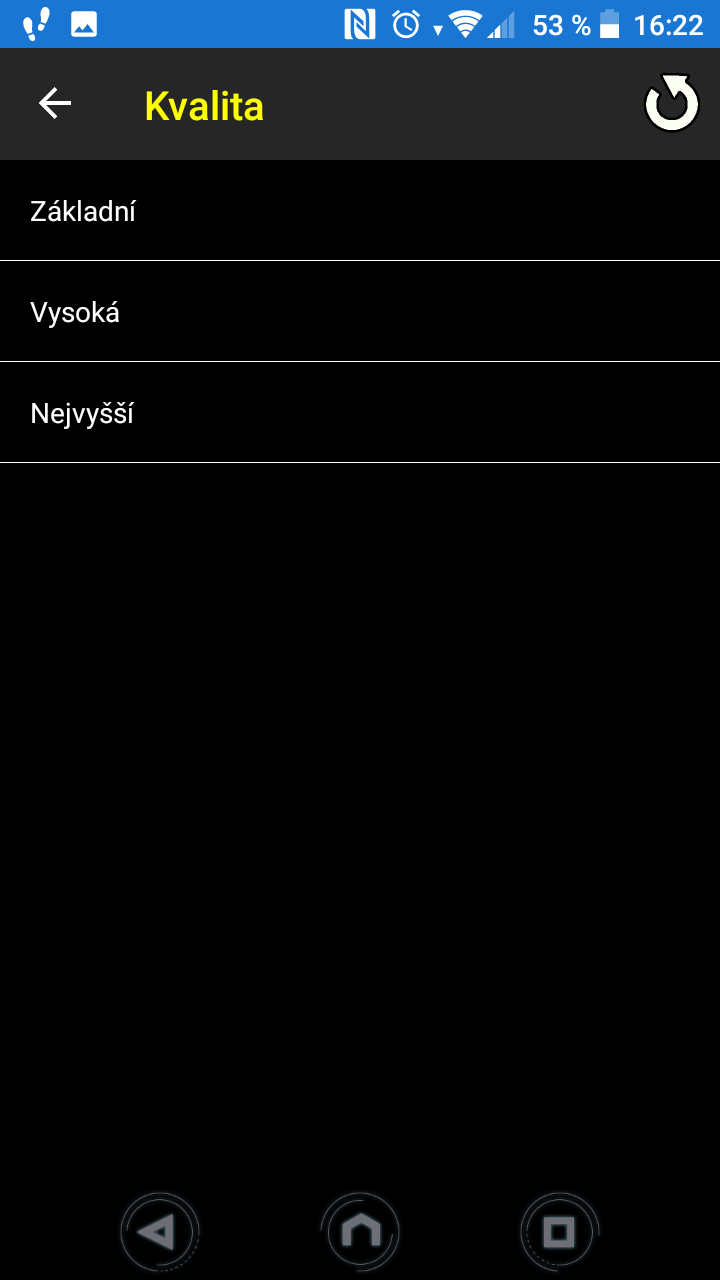
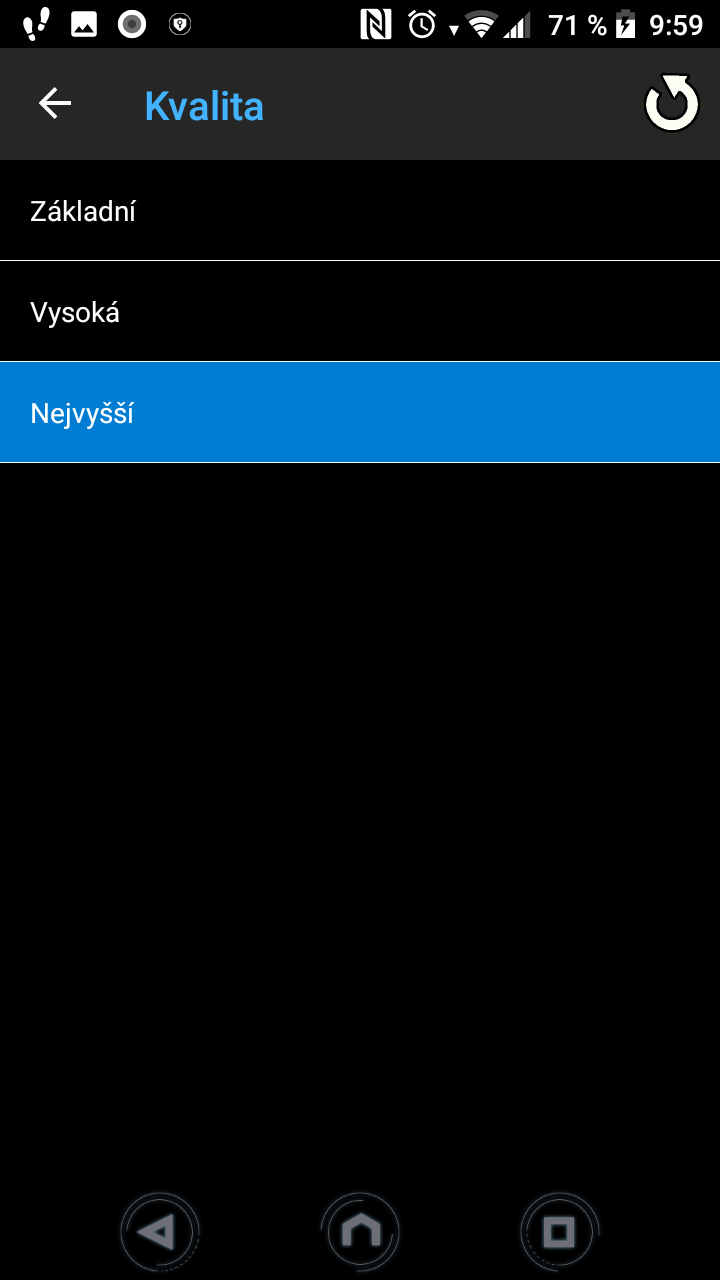
Semaphore for refreshing, GUI

Changed region(s): [[0.0, 0.2812, 1.0, 0.375], [0.0, 0.0, 1.0, 0.0938]]

diff --git a/SledovaniTVLive/SledovaniTVLive/Views/SettingsPage.xaml b/SledovaniTVLive/SledovaniTVLive/Views/SettingsPage.xaml
@@ -19,12 +19,13 @@
 
             <Style x:Key="CaptionStyle" TargetType="Label">
                 <Setter Property="TextColor" Value="White"/>
-                <Setter Property="FontSize" Value="14"/>                
+                <Setter Property="FontSize" Value="14"/>
+                <Setter Property="VerticalTextAlignment" Value="Center"/>
             </Style>
 
             <Style x:Key="GroupCaptionStyle" TargetType="Label">
                 <Setter Property="TextColor" Value="#41b3ff"/>
-                <Setter Property="FontSize" Value="16"/>                
+                <Setter Property="FontSize" Value="14"/>                
             </Style>
 
             <Style x:Key="CommonSwitchTextStyle" TargetType="Switch">
@@ -48,9 +49,9 @@
 
                 <StackLayout Margin="20,10,20,0">
 
-                    <Label Text="Přístupové údaje: " Style="{StaticResource GroupCaptionStyle}" />
+                    <Label Text="Přístupové údaje" Style="{StaticResource GroupCaptionStyle}" />
 
-                    <StackLayout Margin="20,20,0,0">
+                    <StackLayout Margin="20,10,0,0">
                         <Label Text="Uživatelské jméno (email):" Style="{StaticResource CaptionStyle}" />
                         <Entry Margin="20,0,0,0" BindingContext="{Binding Config}" x:Name="UsernameEntry"  Text="{Binding Username, Mode=TwoWay}" Placeholder="Zadejte uživatelské jméno" Style="{StaticResource CommonEntryTextStyle}"></Entry>
                     </StackLayout>
@@ -66,11 +67,11 @@
                     </StackLayout>
 
                 </StackLayout>
-                <StackLayout Margin="20,30,20,0">
+                <StackLayout Margin="20,10,20,0">
 
-                    <Label Text="Další nastavení:" Style="{StaticResource GroupCaptionStyle}" />
+                    <Label Text="Další nastavení" Style="{StaticResource GroupCaptionStyle}" />
 
-                    <Grid Margin="20,20,0,0">
+                    <Grid Margin="20,10,0,0">
                         <Grid.RowDefinitions>
                             <RowDefinition Height="*" />                            
                         </Grid.RowDefinitions>

diff --git a/SledovaniTVLive/SledovaniTVLive/Views/App.xaml b/SledovaniTVLive/SledovaniTVLive/Views/App.xaml
@@ -6,7 +6,7 @@
         <ResourceDictionary >
 
             <Color x:Key="primary-back-title-color">#262626</Color>
-            <Color x:Key="primary-title-color">#FFFF00</Color>
+            <Color x:Key="primary-title-color">#41b3ff</Color>
 
             <!-- Pallete-end -->
             <Style ApplyToDerivedTypes="true" TargetType="NavigationPage">

diff --git a/SledovaniTVLive/SledovaniTVLive.Android/Resources/Resource.designer.cs b/SledovaniTVLive/SledovaniTVLive.Android/Resources/Resource.designer.cs
@@ -3266,44 +3266,50 @@ namespace SledovaniTVLive.Droid
 		public partial class Color
 		{
 			
-			// aapt resource value: 0x7f0d004f
-			public const int abc_background_cache_hint_selector_material_dark = 2131558479;
-			
 			// aapt resource value: 0x7f0d0050
-			public const int abc_background_cache_hint_selector_material_light = 2131558480;
+			public const int ListViewHighlighted = 2131558480;
+			
+			// aapt resource value: 0x7f0d004f
+			public const int ListViewSelected = 2131558479;
 			
 			// aapt resource value: 0x7f0d0051
-			public const int abc_btn_colored_borderless_text_material = 2131558481;
+			public const int abc_background_cache_hint_selector_material_dark = 2131558481;
 			
 			// aapt resource value: 0x7f0d0052
-			public const int abc_btn_colored_text_material = 2131558482;
+			public const int abc_background_cache_hint_selector_material_light = 2131558482;
 			
 			// aapt resource value: 0x7f0d0053
-			public const int abc_color_highlight_material = 2131558483;
+			public const int abc_btn_colored_borderless_text_material = 2131558483;
 			
 			// aapt resource value: 0x7f0d0054
-			public const int abc_hint_foreground_material_dark = 2131558484;
+			public const int abc_btn_colored_text_material = 2131558484;
 			
 			// aapt resource value: 0x7f0d0055
-			public const int abc_hint_foreground_material_light = 2131558485;
+			public const int abc_color_highlight_material = 2131558485;
+			
+			// aapt resource value: 0x7f0d0056
+			public const int abc_hint_foreground_material_dark = 2131558486;
+			
+			// aapt resource value: 0x7f0d0057
+			public const int abc_hint_foreground_material_light = 2131558487;
 			
 			// aapt resource value: 0x7f0d0004
 			public const int abc_input_method_navigation_guard = 2131558404;
 			
-			// aapt resource value: 0x7f0d0056
-			public const int abc_primary_text_disable_only_material_dark = 2131558486;
-			
-			// aapt resource value: 0x7f0d0057
-			public const int abc_primary_text_disable_only_material_light = 2131558487;
-			
 			// aapt resource value: 0x7f0d0058
-			public const int abc_primary_text_material_dark = 2131558488;
+			public const int abc_primary_text_disable_only_material_dark = 2131558488;
 			
 			// aapt resource value: 0x7f0d0059
-			public const int abc_primary_text_material_light = 2131558489;
+			public const int abc_primary_text_disable_only_material_light = 2131558489;
 			
 			// aapt resource value: 0x7f0d005a
-			public const int abc_search_url_text = 2131558490;
+			public const int abc_primary_text_material_dark = 2131558490;
+			
+			// aapt resource value: 0x7f0d005b
+			public const int abc_primary_text_material_light = 2131558491;
+			
+			// aapt resource value: 0x7f0d005c
+			public const int abc_search_url_text = 2131558492;
 			
 			// aapt resource value: 0x7f0d0005
 			public const int abc_search_url_text_normal = 2131558405;
@@ -3314,29 +3320,29 @@ namespace SledovaniTVLive.Droid
 			// aapt resource value: 0x7f0d0007
 			public const int abc_search_url_text_selected = 2131558407;
 			
-			// aapt resource value: 0x7f0d005b
-			public const int abc_secondary_text_material_dark = 2131558491;
-			
-			// aapt resource value: 0x7f0d005c
-			public const int abc_secondary_text_material_light = 2131558492;
-			
 			// aapt resource value: 0x7f0d005d
-			public const int abc_tint_btn_checkable = 2131558493;
+			public const int abc_secondary_text_material_dark = 2131558493;
 			
 			// aapt resource value: 0x7f0d005e
-			public const int abc_tint_default = 2131558494;
+			public const int abc_secondary_text_material_light = 2131558494;
 			
 			// aapt resource value: 0x7f0d005f
-			public const int abc_tint_edittext = 2131558495;
+			public const int abc_tint_btn_checkable = 2131558495;
 			
 			// aapt resource value: 0x7f0d0060
-			public const int abc_tint_seek_thumb = 2131558496;
+			public const int abc_tint_default = 2131558496;
 			
 			// aapt resource value: 0x7f0d0061
-			public const int abc_tint_spinner = 2131558497;
+			public const int abc_tint_edittext = 2131558497;
 			
 			// aapt resource value: 0x7f0d0062
-			public const int abc_tint_switch_track = 2131558498;
+			public const int abc_tint_seek_thumb = 2131558498;
+			
+			// aapt resource value: 0x7f0d0063
+			public const int abc_tint_spinner = 2131558499;
+			
+			// aapt resource value: 0x7f0d0064
+			public const int abc_tint_switch_track = 2131558500;
 			
 			// aapt resource value: 0x7f0d0008
 			public const int accent_material_dark = 2131558408;
@@ -3404,8 +3410,8 @@ namespace SledovaniTVLive.Droid
 			// aapt resource value: 0x7f0d0040
 			public const int design_bottom_navigation_shadow_color = 2131558464;
 			
-			// aapt resource value: 0x7f0d0063
-			public const int design_error = 2131558499;
+			// aapt resource value: 0x7f0d0065
+			public const int design_error = 2131558501;
 			
 			// aapt resource value: 0x7f0d0041
 			public const int design_fab_shadow_end_color = 2131558465;
@@ -3431,8 +3437,8 @@ namespace SledovaniTVLive.Droid
 			// aapt resource value: 0x7f0d0048
 			public const int design_snackbar_background_color = 2131558472;
 			
-			// aapt resource value: 0x7f0d0064
-			public const int design_tint_password_toggle = 2131558500;
+			// aapt resource value: 0x7f0d0066
+			public const int design_tint_password_toggle = 2131558502;
 			
 			// aapt resource value: 0x7f0d0016
 			public const int dim_foreground_disabled_material_dark = 2131558422;
@@ -3557,11 +3563,11 @@ namespace SledovaniTVLive.Droid
 			// aapt resource value: 0x7f0d003a
 			public const int switch_thumb_disabled_material_light = 2131558458;
 			
-			// aapt resource value: 0x7f0d0065
-			public const int switch_thumb_material_dark = 2131558501;
+			// aapt resource value: 0x7f0d0067
+			public const int switch_thumb_material_dark = 2131558503;
 			
-			// aapt resource value: 0x7f0d0066
-			public const int switch_thumb_material_light = 2131558502;
+			// aapt resource value: 0x7f0d0068
+			public const int switch_thumb_material_light = 2131558504;
 			
 			// aapt resource value: 0x7f0d003b
 			public const int switch_thumb_normal_material_dark = 2131558459;

diff --git a/SledovaniTVLive/SledovaniTVLive/ViewModels/MainPageViewModel.cs b/SledovaniTVLive/SledovaniTVLive/ViewModels/MainPageViewModel.cs
@@ -12,7 +12,7 @@ using System.Threading.Tasks;
 using Xamarin.Forms;
 using Plugin.Permissions;
 using Plugin.Permissions.Abstractions;
-
+using System.Threading;
 
 namespace SledovaniTVLive.ViewModels
 {
@@ -20,6 +20,7 @@ namespace SledovaniTVLive.ViewModels
     {
         private TVService _service;
         private ISledovaniTVConfiguration _config;
+        private static SemaphoreSlim _semaphoreSlim = new SemaphoreSlim(1, 1);
 
         public ObservableCollection<ChannelItem> Channels { get; set; } = new ObservableCollection<ChannelItem>();
 
@@ -144,6 +145,8 @@ namespace SledovaniTVLive.ViewModels
 
         private async Task RefreshEPG(bool SetFinallyNotBusy = true)
         {
+            await _semaphoreSlim.WaitAsync();
+
             IsBusy = true;
 
             try
@@ -176,11 +179,15 @@ namespace SledovaniTVLive.ViewModels
 
                 OnPropertyChanged(nameof(StatusLabel));
                 OnPropertyChanged(nameof(IsBusy));
-            }
+
+                _semaphoreSlim.Release();
+            }      
         }
 
         private async Task RefreshChannels(bool SetFinallyNotBusy = true)
         {
+            await _semaphoreSlim.WaitAsync();
+
             IsBusy = true;
 
             try
@@ -221,6 +228,8 @@ namespace SledovaniTVLive.ViewModels
                 }
                 OnPropertyChanged(nameof(StatusLabel));
                 OnPropertyChanged(nameof(IsBusy));
+
+                _semaphoreSlim.Release();
             }
         }
 

diff --git a/SledovaniTVLive/SledovaniTVLive/ViewModels/FilterPageViewModel.cs b/SledovaniTVLive/SledovaniTVLive/ViewModels/FilterPageViewModel.cs
@@ -12,14 +12,16 @@ using System.Threading.Tasks;
 using Xamarin.Forms;
 using Plugin.Permissions;
 using Plugin.Permissions.Abstractions;
+using System.Threading;
 
 namespace SledovaniTVLive.ViewModels
 {
     public class FilterPageViewModel : BaseViewModel
     {
         private TVService _service;
-        private ISledovaniTVConfiguration _config;       
-        
+        private ISledovaniTVConfiguration _config;
+        private static SemaphoreSlim _semaphoreSlim = new SemaphoreSlim(1, 1);
+
         private GroupFilterItem _selectedGroupItem;
         private TypeFilterItem _selectedTypeItem;
 
@@ -99,6 +101,8 @@ namespace SledovaniTVLive.ViewModels
 
         private async Task Refresh()
         {
+            await _semaphoreSlim.WaitAsync();
+
             IsBusy = true;
 
             // Clearing Pickers leads to clearing config value via SelectedTypeItem
@@ -185,6 +189,8 @@ namespace SledovaniTVLive.ViewModels
 
                 if (SelectedGroupItem == null)
                     SelectedGroupItem = FirstGroup;
+
+                _semaphoreSlim.Release();
             }            
         }
     }

diff --git a/SledovaniTVLive/SledovaniTVLive/ViewModels/StreamQualityViewModel.cs b/SledovaniTVLive/SledovaniTVLive/ViewModels/StreamQualityViewModel.cs
@@ -6,6 +6,7 @@ using System;
 using System.Collections.Generic;
 using System.Collections.ObjectModel;
 using System.Text;
+using System.Threading;
 using System.Threading.Tasks;
 using Xamarin.Forms;
 
@@ -15,6 +16,7 @@ namespace SledovaniTVLive.ViewModels
     {
         private TVService _service;
         private ISledovaniTVConfiguration _config;
+        private static SemaphoreSlim _semaphoreSlim = new SemaphoreSlim(1, 1);
 
         public ObservableCollection<QualityItem> Qualities { get; set; } = new ObservableCollection<QualityItem>();
 
@@ -36,6 +38,8 @@ namespace SledovaniTVLive.ViewModels
 
         private async Task Refresh()
         {
+            await _semaphoreSlim.WaitAsync();
+
             IsBusy = true;
 
             try
@@ -59,6 +63,8 @@ namespace SledovaniTVLive.ViewModels
                 IsBusy = false;
                 OnPropertyChanged(nameof(IsBusy));
                 OnPropertyChanged(nameof(SelectedItem));
+
+                _semaphoreSlim.Release();
             }
         }
     }
